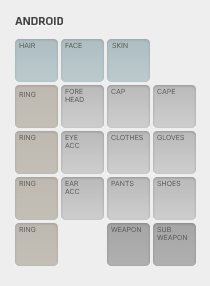
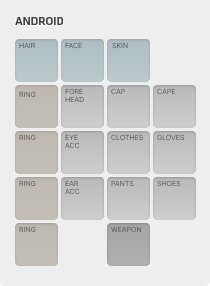
refactoring : 안드로이드 아이콘 배치 완성, ui 변경

Changed region(s): [[0.7143, 0.7552, 0.9429, 0.951]]

diff --git a/src/components/user/equipment/ItemEquipmentInformation.jsx b/src/components/user/equipment/ItemEquipmentInformation.jsx
@@ -60,19 +60,23 @@ const cashPositions = {
   반지4: { top: "154px", left: "10px" },
 };
 
+// 안드로이드 아이콘 배치, 46px 간격
 const ADPositions = {
-  모자: { top: "9px", left: "110px" },
-  얼굴장식: { top: "58px", left: "110px" },
-  눈장식: { top: "104px", left: "110px" },
-  귀고리: { top: "104px", left: "157px" },
-  상의: { top: "156px", left: "110px" },
-  하의: { top: "203px", left: "110px" },
-  신발: { top: "255px", left: "110px" },
-  장갑: { top: "205px", left: "61px" },
-  망토: { top: "205px", left: "160px" },
-  보조무기: { top: "154px", left: "205px" },
-  무기: { top: "154px", left: "59px" },
-  반지4: { top: "203px", left: "59px" },
+  모자: { top: "85px", left: "107px" },
+  얼굴장식: { top: "85px", left: "61px" },
+  눈장식: { top: "131px", left: "61px" },
+  귀고리: { top: "177px", left: "61px" },
+  상의: { top: "131px", left: "107px" },
+  하의: { top: "177px", left: "107px" },
+  신발: { top: "177px", left: "153px" },
+  장갑: { top: "131px", left: "153px" },
+  망토: { top: "85px", left: "153px" },
+  보조무기: { top: "154px", left: "206px" },
+  무기: { top: "223px", left: "107px" },
+  반지1: { top: "85px", left: "15px" },
+  반지2: { top: "131px", left: "15px" },
+  반지3: { top: "177px", left: "15px" },
+  반지4: { top: "223px", left: "15px" },
 };
 
 const petPositions = {
@@ -729,12 +733,38 @@ const UiBackgrnd = styled.div`
   background-color: rgb(255, 255, 255);
   border-bottom-left-radius: 5px;
   border-bottom-right-radius: 5px;
-  border-top-right-radius: 5px;
 `;
 
 const BackgroundImageWrap = styled.div`
-  width: ${({ $isSelected }) => ($isSelected === "펫" ? "342px" : "342px")};
-  height: ${({ $isSelected }) => ($isSelected === "펫" ? "203px" : "349px")};
+  width: ${(props) => {
+    switch (props.$isSelected) {
+      case "장비":
+        return "342px";
+      case "캐시":
+        return "349px";
+      case "펫":
+        return "342px";
+      case "AD":
+        return "210px";
+      default:
+        return "auto";
+    }
+  }};
+
+  height: ${(props) => {
+    switch (props.$isSelected) {
+      case "장비":
+        return "349px";
+      case "캐시":
+        return "349px";
+      case "펫":
+        return "203px";
+      case "AD":
+        return "286px";
+      default:
+        return "auto";
+    }
+  }};
 `;
 
 const CharacterImageWrap = styled.div`
@@ -756,7 +786,7 @@ const CharacterImg = styled.img`
   position: absolute;
   top: 50%;
   left: 50%;
-  transform: translate(-50%, -53%) scaleX(-1);
+  transform: translate(-53%, -53%) scaleX(-1);
   image-rendering: pixelated;
   object-fit: cover;
 `;
@@ -784,8 +814,36 @@ const Bg = styled.img`
 `;
 
 const BackgroundImage = styled.img`
-  width: ${({ $isSelected }) => ($isSelected === "펫" ? "342px" : "342px")};
-  height: ${({ $isSelected }) => ($isSelected === "펫" ? "203px" : "349px")};
+  width: ${(props) => {
+    switch (props.$isSelected) {
+      case "장비":
+        return "342px";
+      case "캐시":
+        return "349px";
+      case "펫":
+        return "342px";
+      case "AD":
+        return "210px";
+      default:
+        return "auto";
+    }
+  }};
+
+  height: ${(props) => {
+    switch (props.$isSelected) {
+      case "장비":
+        return "349px";
+      case "캐시":
+        return "349px";
+      case "펫":
+        return "203px";
+      case "AD":
+        return "349px";
+      default:
+        return "auto";
+    }
+  }};
+
   opacity: 0.8;
 `;
 
